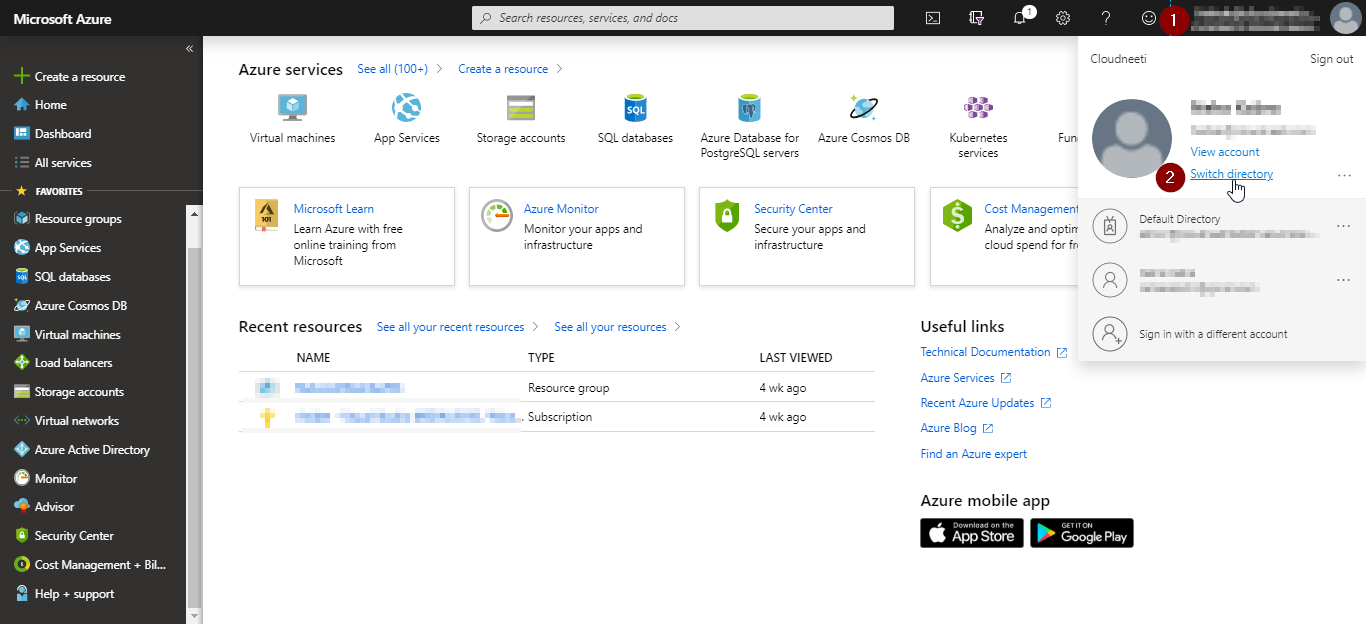
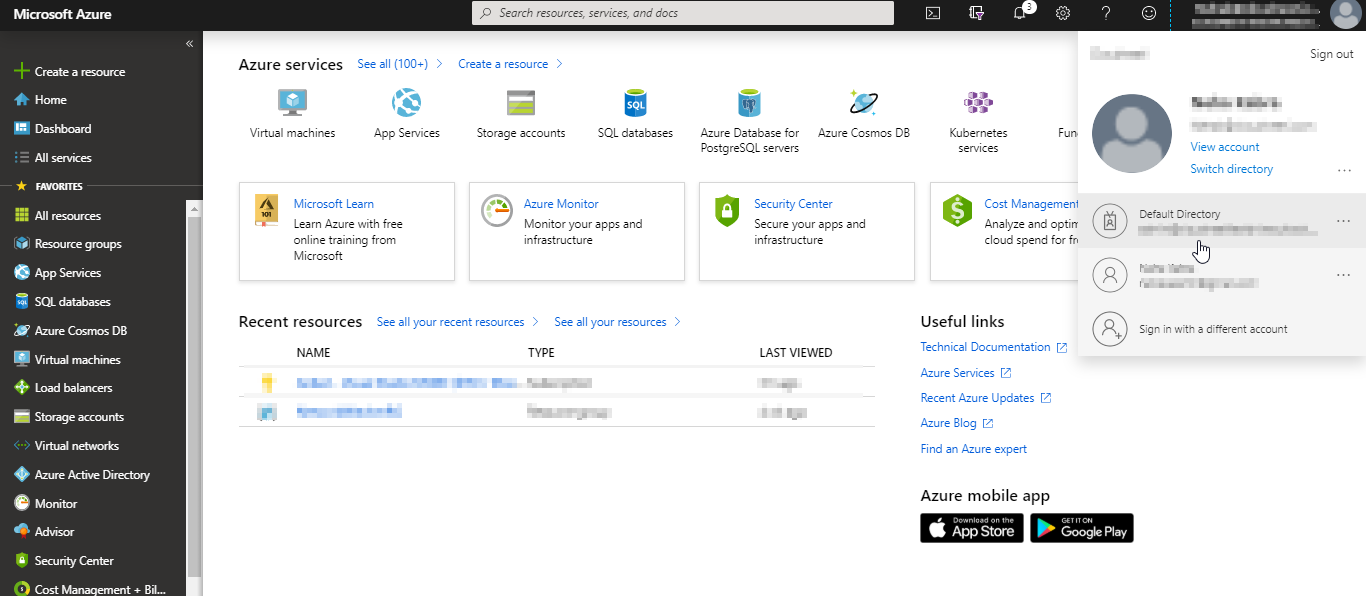
Task 10522 : Update titles in TOC to be short and naviagation steps

diff --git a/docs/administratorGuide/azureSubscriptions.md b/docs/administratorGuide/azureSubscriptions.md
@@ -41,7 +41,9 @@ The following activities need to be completed by the customer prior to onboardin
 
     ![Azure Overview](.././images/azureSubscriptions/Switch_to_AzureDirectory.png#thumbnail)
 
-2. Click on Azure Active Directory from left pan of the portal and click on properties to get Tenant ID
+2. Click on **Azure Active Directory** from in the primary menu.
+    Click on **Properties** in the secondary menu.
+    Copy **Directory ID** to a notepad.
     
     ![Azure Overview](.././images/azureSubscriptions/Azure_Directory_ID.png#thumbnail)
 
@@ -57,31 +59,33 @@ Registering Cloudneeti Service Principal in the Azure AD can be done manually or
 
     a. Login to [Azure Portal](https://portal.azure.com) with Global Administrator role
 
-    b. Go to  Azure Active Directory in the sidebar then select App Registrations and click on "New registration"
+    b. Go to  **Azure Active Directory** in the in the primary menu.
+        Select **App Registrations** in the secondary menu
+        Click on **New registration**
     
     ![Service Principal - Azure Portal](.././images/azureSubscriptions/AzureManual_AddSP.png#thumbnail)
 
-    c. Enter the Name for example "Cloudneeti" 
+    c. Enter the name (for example "Cloudneeti")
       
-    d. Click on "Register" button to create application.
+    d. Click on **Register** button to create Cloudneeti Service Principal.
     
 2. Add Client Secret to Cloudneeti Service Principal
 
-    a. Click on "New Client Secret" in "Client Secret" section
+    a. Click on **new client secret** in "Client Secret" section
     
     ![Client Secret](.././images/azureSubscriptions/Azure_SP_AddClientSecret.png#thumbnail)
     
     b. Add Description and select expiry time 
     
-    c. Click on "Add" button
+    c. Click on **Add** button
     
-    d. Please copy and save the "Client Secret"
+    d. Please copy to clipboard and paste the Client Secret in your notepad
     
     ![Client Secret](.././images/azureSubscriptions/AzureSP_CaptureClientSecret.png#thumbnail)
 
 3. Add the Microsoft Graph permissions 
 
-    **This step is optional** in case the user doesn’t want to provide the Microsoft Graph permissions given in section Azure Active Directory Permissions.
+    This step is needed to gain access to Azure AD related policies. If customer doesn’t want to grant Cloudneeti application access to customer’s Azure AD, Cloudneeti application will not be able to provider Azure AD related security posture information.
 
     a. Click on API Permissions
 
@@ -92,6 +96,7 @@ Registering Cloudneeti Service Principal in the Azure AD can be done manually or
     | Microsoft.Graph | Directory.Read.All<br> [Refer here](https://docs.microsoft.com/en-us/graph/permissions-reference#directory-permissions) | Application |
 
     c. Click on the 'Grant admin consent’ button in the ‘Grant consent’ section.
+    d. Verify success message showing Successfully granted admin consent for the requested permissions.
 
     ![Service Principal - Azure Portal](.././images/azureSubscriptions/Azure_API_Permissions.png#thumbnail)
 
@@ -131,29 +136,24 @@ Use the `Create-ServicePrincipal-AzureOnboarding.ps1` script to create and regis
 
 6. Grant admin consent to Cloudneeti Service Principal
 
+This step is needed to gain access to Azure AD related policies. If customer doesn’t want to grant Cloudneeti application access to customer’s Azure AD, Cloudneeti application will not be able to provider Azure AD related security posture information.
 
-    The Azure AD **Global Administrator** needs to grant permissions to Cloudneeti in order to collect the Azure AD data. 
+Click on the 'Grant admin consent’ button in the ‘Grant consent’ section.
 
-    Skip this step if the user has created the Cloudneeti service principal without the Microsoft Graph permissions.
-
-    Follow the steps below to grant permission:
-
-    a. Sign in to the Azure portal as a global administrator.
+Follow the steps below to grant permission:
+a. Sign in to the Azure portal as a global administrator.  
+b. Click on **Azure Active Directory**.  
+c. Navigate to the **App Registrations blade**.   
+d. Select Cloudneeti Service Principal.
     
-    b. Click on `Azure Active Directory`.
-    
-    c. Navigate to the App Registrations blade.
-    
-    d. Select Cloudneeti service principal.
-    
-    ![Service Principal - Azure Portal](.././images/azureSubscriptions/Grant_Permission.png#thumbnail)
+![Service Principal - Azure Portal](.././images/azureSubscriptions/Grant_Permission.png#thumbnail)
      
 
-    e. Go to 'API permissions' and confirm Microsoft Graph permissions.
+e. Go to API permissions and confirm Microsoft Graph permissions.
 
-    f. Click on the 'Grant admin consent’ button in the ‘Grant consent’ section.
+f. Click on the 'Grant admin consent’ button in the ‘Grant consent’ section for the listed permissions.
 
-    ![Grant permission ](.././images/azureSubscriptions/Azure_API_Permissions.png#thumbnail)
+   ![Grant permission ](.././images/azureSubscriptions/Azure_API_Permissions.png#thumbnail)
 
 
 ## 3	Assigning Role 
@@ -164,20 +164,19 @@ Assign required roles Cloudneeti Service Principal to on Customer Subscription
 #### 3.1  Reader and backup reader
 Follow the steps below to assign reader and backup reader roles to Cloudneeti Service Principal on the Azure subscription:
 
-1.	Go to the subscription’s Access control (IAM) in the menu.
+1.	Go to the subscription’s **Access control (IAM)** in the third level menu..
 
-2.	Click on the ’Add’ button and select ‘Add role assignment’.
+2.	Click on the **Add** button and select **Add role assignment**.
  
-3.	Select ‘Reader’ role and Cloudneeti service principal.
+3.	Select **Reader** role and Cloudneeti service principal.
 
-4.	Select ‘Save’ to complete the role assignment. 
+4.	Select **Save** to complete the role assignment. 
 
     ![Assign role](.././images/azureSubscriptions/Azure_Assign_Role.png#thumbnail)
  
 
 #### 3.2 Website Contributor 
- 
- Cloudneeti Service principal needs Website Contributor role access to the Subscription in order to view application settings. **This step is optional**, if the Website Contributor Role is not assigned then below 15 policies will show "No Data" on Cloudneeti portal.
+This step is needed to gain access to application settings. If customer doesn’t want to grant the Website Contributor Role is not assigned then below 15 policies will show "No Data" on Cloudneeti portal.
  
  
 | Policy ID | Policy Name                              | Category |
@@ -202,21 +201,18 @@ Follow the steps below to assign reader and backup reader roles to Cloudneeti Se
 
  Follow the steps below to assign Website Contributor role to Cloudneeti Service Principal on the Azure subscription.
 
-1.	Go to the subscription’s Access control (IAM) in the menu..
+1.	Go to the subscription’s **Access control (IAM)** in third level menu.
 
-2.	Click on the ’Add’ button and select ‘Add role assignment’.
- 
-    ![Add role](.././images/azureSubscriptions/Assign_role.png#thumbnail)
- 
+2.	Click on the **Add** button and select **Add role assignment**.
 
-3.	Select ‘Website Contributor’ role and Cloudneeti service principal.
+3.	Select **Website Contributor** role and **Cloudneeti service principal**.
+4.	Select **Save** to complete the role assignment. 
 
     ![Assign role](.././images/azureSubscriptions/Website_Contributor_Role.png#thumbnail)
  
 
-4.	Select ‘Save’ to complete the role assignment. 
+## 4	Onboarding Azure Subscription
 
-## 4	Onboarding Azure Subscription Account
 
 1.	Log in to the Cloudneeti portal using the license admin user credentials.
 
@@ -231,7 +227,7 @@ Follow the steps below to assign reader and backup reader roles to Cloudneeti Se
     a. Please go to Settings > Manage Accounts on Cloudneeti portal
     ![Activate License](.././images/azureSubscriptions/Manage_Accounts.png#thumbnail)
     
-    b. Click on "Add Cloud Account" button
+    b. Click on **Add Cloud Account** button
     ![Activate License](.././images/azureSubscriptions/Add_Account.png#thumbnail)
 
     c. Select License to add cloud account
@@ -247,7 +243,7 @@ Follow the steps below to assign reader and backup reader roles to Cloudneeti Se
 
 5.	Click on ‘Get Subscriptions’ to get the list of subscriptions on which Cloudneeti service principal has reader access.
 
-6.	Select the Azure subscription to onboard and click ‘Save & Continue’.
+6.	Select the Azure subscription to onboard and click **Save & Continue**.
  
     ![Add Account - save and continue](.././images/azureSubscriptions/Add_Azure_Account_Select_Subscription.png#thumbnail)
 
@@ -271,7 +267,7 @@ To receive email notifications from Cloudneeti Bot, please refer following steps
 
 1.	On Cloudneeti portal, navigate to settings
 2.	Select desired License and Account 
-3.	Click on configure button to select “Configure Notifications”
+3.	Click on configure button to select **Configure Notifications**
 4.	Enter comma separated email addresses.
 
     ![Configure Notifications](.././images/azureSubscriptions/Configure_notifications.png#thumbnail)

diff --git a/docs/administratorGuide/office365Subscriptions.md b/docs/administratorGuide/office365Subscriptions.md
@@ -55,7 +55,7 @@ The following activities need to be completed prior to onboarding.
 
 
 
-## Part 1: Onboarding Office 365 account
+# Part 1: Onboarding Office 365 account
 
 ## 2	Register Cloudneeti Application in the Customer’s Azure AD
 Registering Cloudneeti Service Principal in the Azure AD can be done manually or using automation script.  
@@ -179,7 +179,7 @@ Follow the steps below to grant permission:
 
 5.	Click on ‘Add Account’.
 
-## 5	Verify Data Collection**
+## 5	Verify Data Collection
 
 1.	Click on ‘Go To Dashboard’ to see the data.
     ![Success](.././images/office365Subscriptions/Success.png#thumbnail)
@@ -200,7 +200,7 @@ To receive email notifications from Cloudneeti Bot, please refer following steps
 
 5.	Click on save button.
 
-## Part 2: Advanced security configuration
+# Part 2: Advanced security configuration
 
 An Azure Automation Account resource is deployed to collect data for additional 19 advanced security policies. Office 365 control plane exposes the data only through PowerShell that needs to run under a Global AD administrator credential (with MFA access). To ensure that Cloudneeti does not ever store/have access to a global AD administrator, the recommended way to deploy a small PowerShell script under customer’s control in their own Azure subscription. The metadata collected after running a script is then pushed to a Cloudneeti API that you have registered during the Cloudneeti API key generation procedure steps. 
 

diff --git a/docs/administratorGuide/forAzurePolicies.md b/docs/administratorGuide/forAzurePolicies.md
@@ -109,17 +109,25 @@ Follow below steps to assign required roles to remediation policies configured f
 4.	Run below commands on CloudShell:
 
     a.	Download script 
-        <pre><code>
+        <pre>
+        <code>```
         wget https://raw.githubusercontent.com/Cloudneeti/docs_cloudneeti/master/scripts/Assign-RolesToRemediationPolicy.ps1 -O Assign-RolesToRemediationPolicy.ps1
-        </pre></code>
+        ```
+        </pre>
+        </code>
+    
     b.  Switch to the User directory
         <pre><code>
+        ```
         cd $user
+        ```
         </pre></code>  
     c.  Run provisioning script with inline parameters
         <pre><code>
+        ```
         ./Assign-RolesToRemediationPolicy.ps1 -azureActiveDirectoryId<Azure active directory Id> `
                                     -subscriptionId<Subscription Id > `
+        ```
         </pre></code>
 
 5.	Azure will start evaluation of resources related to enabled policies.
